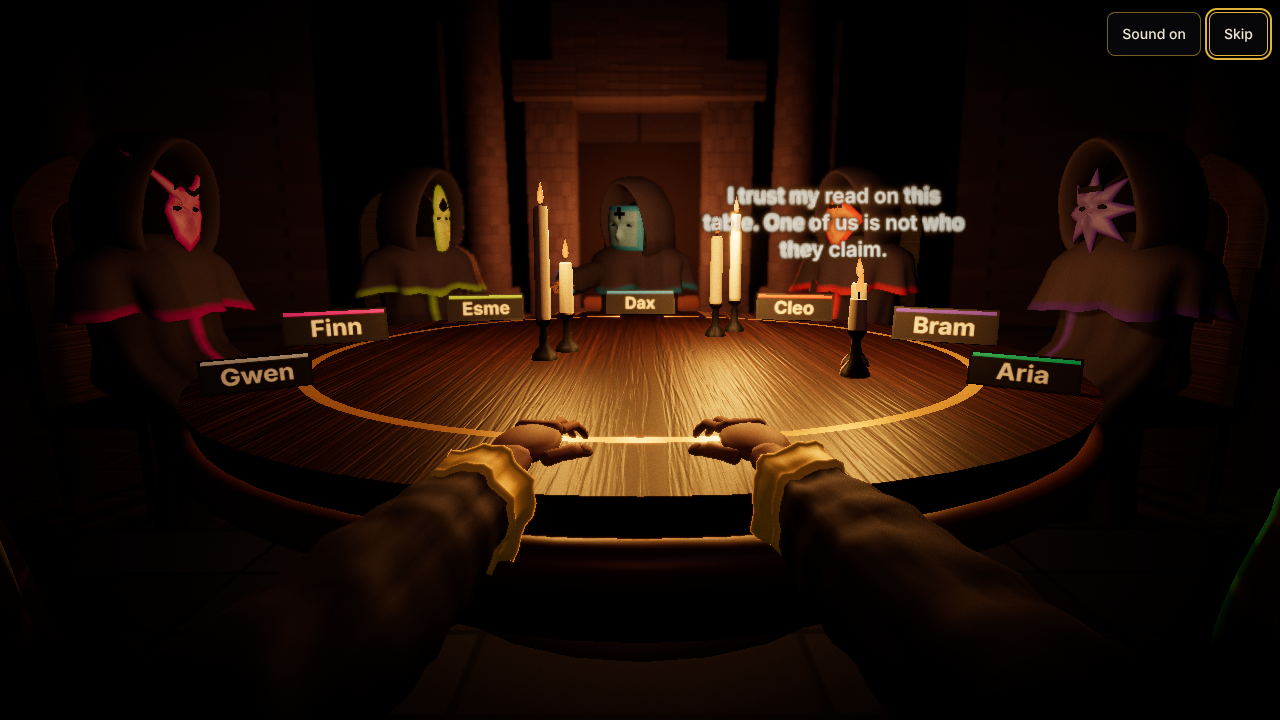
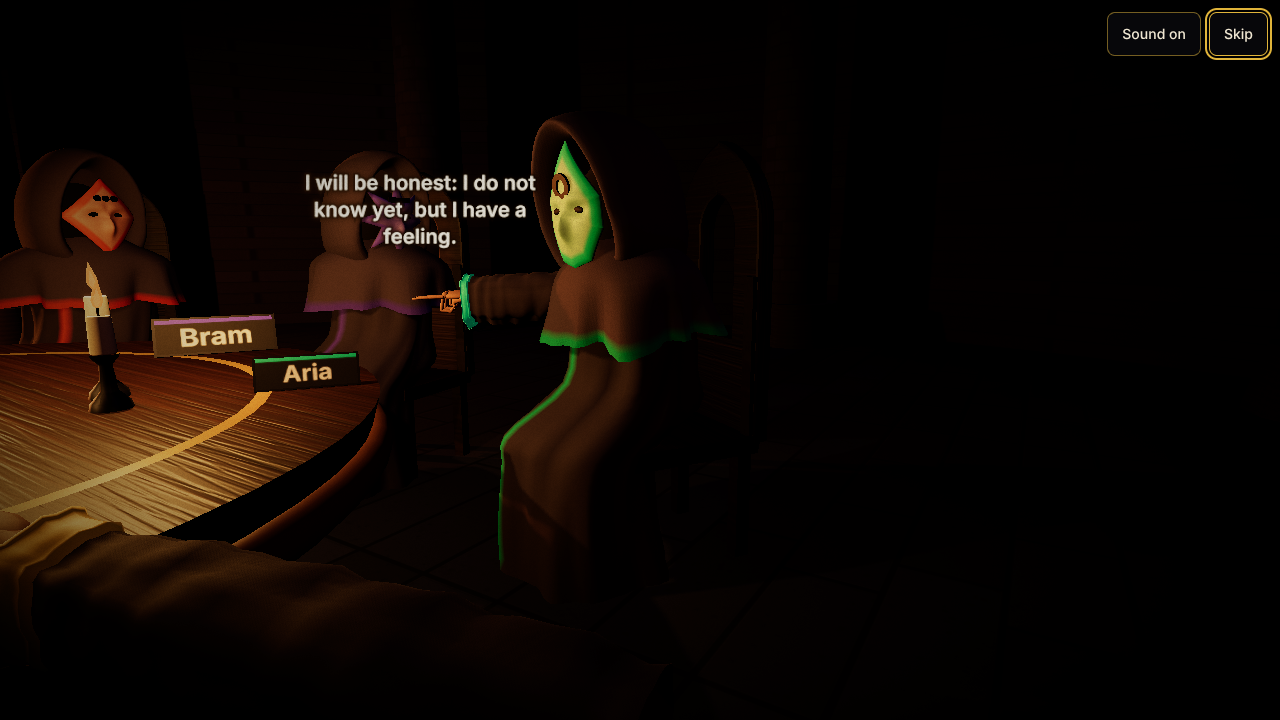
docs: M19 step 1 playtest notes after gate A's second round
The speech still is retaken with the depth of field off while a figure speaks, and the notes say plainly that the first attempt at sharp words did nothing.

Claude-Session: https://claude.ai/code/session_01NEW5PUEvNR3ueck9S37V7C

diff --git a/docs/playtests/m19-slice/playtest.md b/docs/playtests/m19-slice/playtest.md
@@ -11,7 +11,7 @@
 3. **Neighbours on the laptop.** The seats beside you now sit 58 degrees round (the rest about 41) and 0.25 m back. Seats 2 and 6 are whole in a 16:9 picture and the two beside you stay out of it until you turn (`d-2` to `d-6`). A neighbour who speaks is turned to fully, so they are whole and not cut by the edge.
 4. **Masks.** The slab mask across the table is a bright azure at full light; violet moved to a darker indigo; teal shifted toward green. Every saturated accent is at least 25 degrees of hue from the next, magenta and indigo 50. **Blur test:** seven separate blots (white heart, magenta horns, yellow bar, pale-blue slab, orange lozenge, dark indigo sun, green peak).
 5. **Hands.** Each finger bone is lathed: it swells at the joints and narrows between them, and each finger tapers to a tip with a nail. The resting fingers had been sunk into the table, leaving stubs; the hand is now tipped back so the arched fingers and the heel rest on the wood (a test holds it there).
-6. **Speech.** The boxed bubble is gone. A figure's words are the turn prompt's pale lit letters, hung beside its mask on the side toward the middle of the picture (`d-1`), above the mask on a phone where neither side has room (`p-1`), and at the distance the depth of field is focused on.
+6. **Speech.** The boxed bubble is gone. A figure's words are the turn prompt's pale lit letters, hung beside its mask on the side toward the middle of the picture (`d-1`), and above the mask on a phone where neither side has room (`p-1`). While a figure speaks the depth of field is off (it would blur the words by whatever lies behind them), and the words take no fog. `d-1-speech` was retaken at high quality after that change.
 7. **Dawn.** The victim's mask is moved along the table's edge just far enough to clear its plate as you see it, worked out for each seat (`d-9`, `p-9`). The banished mask, which had the same fault, now lies in the middle of the table on your side, tipped up a little less, below the names across the table (`d-7`, `p-7`).
 
 Then the slice's private parts moved into `web/src/scene/` for the other modes: the World composition, the WebGL canvas with its frame meter and lost-context watch, the host (fallback boundary, quality probe, reduced motion, sound), the synthesised sounds, and the choosing keys and list with their styles.
@@ -32,13 +32,15 @@ A context that had not built the scene was given the stills and `/art-direction`
 
 - **`p-9-dawn`: the murder did not read; the victim's mask was a pale smudge.** The dawn mask is drawn larger (scale 0.2) and every mask on the table is tipped further toward you. It is now a readable shape beside Cleo's plate; on a phone the dark pillar still takes much of the frame.
 - **`p-7-banishment`: the turned-over mask read as paper, and lay beside another player's place.** Fixed as above: in the middle of the table on your side, large, below the names.
-- **`d-1-speech`: the words were blurred by the depth of field and crossed by flames; the speaking neighbour loomed half cut off.** The words now hang at the focus distance, and a neighbour who speaks is turned to fully.
+- **`d-1-speech`: the words were blurred by the depth of field and crossed by flames; the speaking neighbour loomed half cut off.** A neighbour who speaks is now turned to fully, so they are whole (`d-1`, retaken: Aria speaks, whole and pointing). Gate A then showed that hanging the words at the focus distance changed nothing, because the blur reads the depth of what is behind them; a still confirmed it (the words ghosted over a figure). The depth of field is now off while a figure speaks, and the retaken `d-1` shows the words sharp. The words can still lie over the mask of a figure next to the speaker (Bram's, in `d-1`).
 
 Its other point is answered, not fixed: **the plate of the seat beside you sits in front of the next figure** (in `p-1` the speaker's plate reads "Aria" while the figure behind it is the next seat round). From your chair your neighbour sits out to the side beyond the table, so any plate on the table in front of them falls, as you see it, in front of the next seat. M18 had the same geometry. A fix (a plate on the chair, or none for the two beside you) is a design choice for the owner.
 
 ## Falls short
 
 - The neighbour's plate, above.
+- Speech can lie over the mask of a figure next to the speaker (`d-1`).
+- The depth of field is off while anyone speaks, so a close shot loses it for that time.
 - Portrait still shows one figure at a time outside the vote; you swipe for the rest.
 - Your sleeves still pass through the table's edge from below.
 - Still true from M18: a leaving figure glides away seated, a figure's pointing arm has no elbow.
